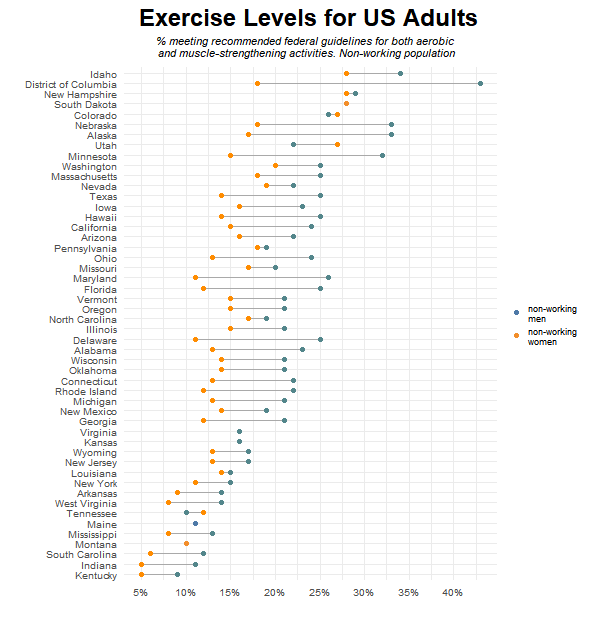
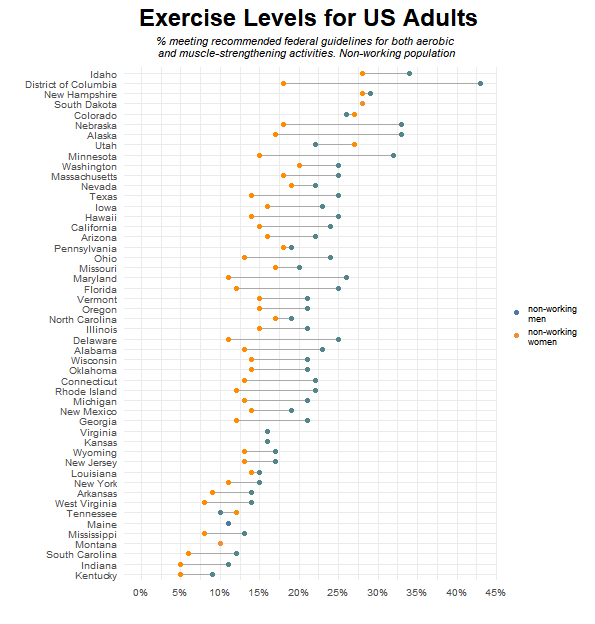
edit files

diff --git a/week_16/tidytuesday_week16.md b/week_16/tidytuesday_week16.md
@@ -49,13 +49,13 @@ exercise_dat %>%
 ```
 
     ## # A tibble: 5 x 3
-    ##   state          category       value
-    ##   <fct>          <chr>          <dbl>
-    ## 1 Georgia        men_nonworking  0.21
-    ## 2 South Carolina adults          0.14
-    ## 3 Colorado       women_working   0.33
-    ## 4 Georgia        men             0.27
-    ## 5 Mississippi    women           0.09
+    ##   state         category         value
+    ##   <fct>         <chr>            <dbl>
+    ## 1 Massachusetts women_nonworking 0.18 
+    ## 2 Arizona       men              0.290
+    ## 3 Florida       adults           0.21 
+    ## 4 South Dakota  men_nonworking   0.28 
+    ## 5 West Virginia men              0.19
 
 EDA
 ---
@@ -123,6 +123,7 @@ exercise_dat %>%
   geom_dumbbell(aes(x = women, xend = men), color = "darkgrey", 
                 colour_x = "darkorange", colour_xend = "cadetblue4",
                 size_x = 1.3, size_xend = 1.3, show.legend = FALSE)  +
+  expand_limits(x = 0) +
   scale_x_continuous(labels = percent_format(), breaks = c(seq(0, 0.4, 0.05))) +
   labs(title = "Exercise Levels for US Adults",
        subtitle = "Percentage meeting recommended federal guidelines for \nboth aerobic and muscle-strengthening activities",
@@ -172,6 +173,7 @@ exercise_dat %>%
   geom_dumbbell(aes(x = women_working, xend = men_working), color = "darkgrey", 
                 colour_x = "darkorange", colour_xend = "cadetblue4",
                 size_x = 1.3, size_xend = 1.3, show.legend = FALSE) +
+  expand_limits(x = 0) +
   scale_x_continuous(labels = percent_format(), breaks = c(seq(0, 0.4, 0.05))) +
   labs(title = "Exercise Levels for US Adults",
        subtitle = "% meeting recommended federal guidelines for both aerobic \nand muscle-strengthening activities. Working population",
@@ -222,6 +224,7 @@ exercise_dat %>%
   geom_dumbbell(aes(x = women_nonworking, xend = men_nonworking), color = "darkgrey", 
                 colour_x = "darkorange", colour_xend = "cadetblue4",
                 size_x = 1.3, size_xend = 1.3, show.legend = FALSE) +
+  expand_limits(x = 0) +
   scale_x_continuous(labels = percent_format(), breaks = c(seq(0, 0.45, 0.05))) +
   labs(title = "Exercise Levels for US Adults",
        subtitle = "% meeting recommended federal guidelines for both aerobic \nand muscle-strengthening activities. Non-working population",
@@ -247,3 +250,7 @@ exercise_dat %>%
 ```
 
 <img src="tidytuesday_week16_files/figure-markdown_github/unnamed-chunk-6-1.png" style="display: block; margin: auto;" />
+
+``` r
+ggsave("non-working.pdf", height = 6.5, width = 6.2)
+```
